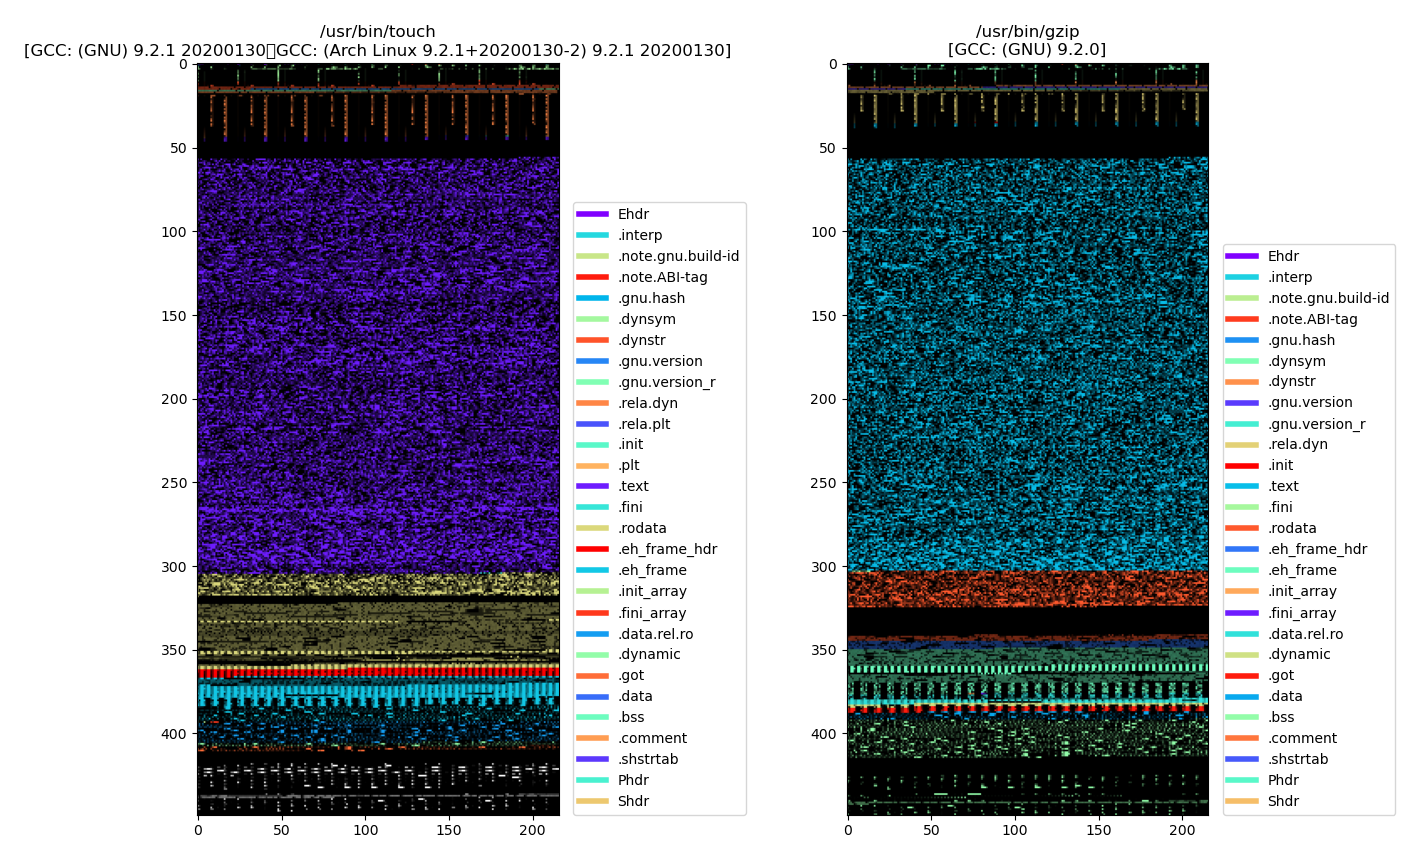
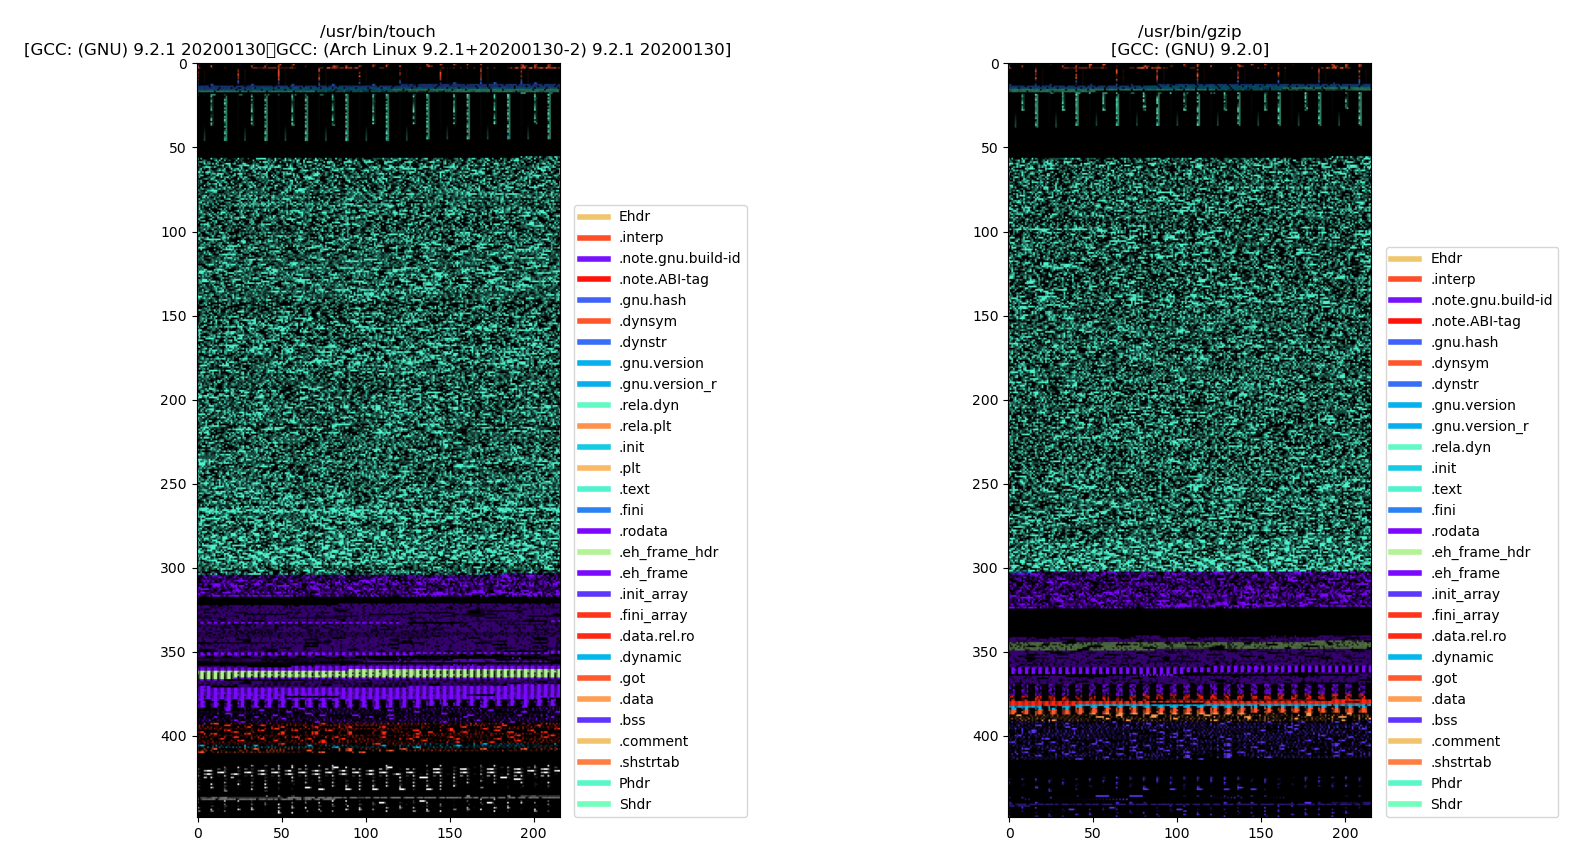
Update README for new features

diff --git a/README.md b/README.md
@@ -13,9 +13,22 @@ and sections, e.g.
 * `.data`,
 * …,
 
-in different colors. The brightness of the pixels is their byte-value, e.g. if `.text` gets the color red in the legend, a pixel with the color `#ff0000` will be `0xff`, and `#000000` will be `0x00`.
+in different colors.
 
-The subplot title is the name of the file, and the file's `.comment` section which conveniently contains some compiler information (at least for `gcc` and `clang`).
+The individual headers and sections will always get the same colors, e.g.
+`.text` will always be displayed in the color `#4ef3cd`.
+
+The brightness of the pixels signifies their byte-value, e.g. for `.text`,
+a value of
+`0xff` will be shown as `#4ef3cd`,
+`0x80` will be shown as `#277a67`, and
+`0x00` will be shown as `#000000`.
+
+You can also choose to only highlight certain parts (headers / sections)
+verbatim or using regex (see [Advanced Examples](#advanced-examples) below).
+
+The subplot title is the name of the file, and the file's `.comment` section
+which conveniently contains some compiler information (at least for `gcc` and `clang`).
 
 ## Dependencies:
 
@@ -31,19 +44,71 @@ $ pip install -r requirements.txt
 
 ## Usage:
 
-Simply call `plot-elf.py` with a list of ELF files,
-e.g. exexutables or .o files
+### Basic Examples:
+
+Simply call `plot_elf.py` with a list of ELF files,
+e.g. exexutables or .o files:
 
 ```bash
-$ ./plot-elf.py "/path/to/elffile.o"
+$ ./plot_elf.py "/path/to/elffile.o"
 ```
 
 For example, to compare `gzip` and `touch`, you can do
 
 ```bash
-$ ./plot-elf.py "$(which touch)" "$(which gzip)"
+$ ./plot_elf.py "$(which touch)" "$(which gzip)"
 ```
 
 which looks something like this:
 
 [![example](example.png)](example.png)
+
+
+### Advanced examples:
+
+You can also specifiy certain parts (headers or sections) that you wish to
+exclusively highlight in the plot. Write a plus sign ("+") and specify a comma-separated list of
+parts you want to highlight. E.g. to only highlight the `.text` section:
+
+```bash
+$ ./plot_elf.py +.text "$(which touch)" "$(which gzip)"
+```
+
+Only highlight `.text` and `.data`:
+
+```bash
+$ ./plot_elf.py +.text,.data "$(which touch)" "$(which gzip)"
+```
+
+If the filter list is the first argument (i.e. before all filenames), it will
+be used on all files.
+Otherwise (i.e. if the filter list comes after a filename), it will be used only
+on that file. E.g., to highlight `which`'s `.data` section, `gzip`'s `.comment`
+section, and the `.text` section of both of them:
+
+```bash
+$ ./plot_elf.py +.text "$(which touch)" +.data "$(which gzip)" +.comment
+```
+
+Use two plusses, if you want to strip away all the bytes that are not highlighted:
+
+```bash
+$ ./plot_elf.py ++.text,.data "$(which touch)" "$(which gzip)"
+```
+
+If the first filter list has a double plus, `plot_elf.py` will behave as if
+every filter list had a double plus.
+
+You can also use regex by enclosing it into two slashes. E.g., to highlight
+`.text` and every section that contains `data` and begins with a dot
+(make sure you use apostrophes!):
+
+```bash
+$ ./plot_elf.py '+.text,/^..*data.*/' "$(which touch)" "$(which gzip)"
+```
+
+Or to **only** show the headers:
+
+```bash
+$ ./plot_elf.py '++/^[^.].*hdr/' "$(which touch)"  "$(which gzip)"
+```
